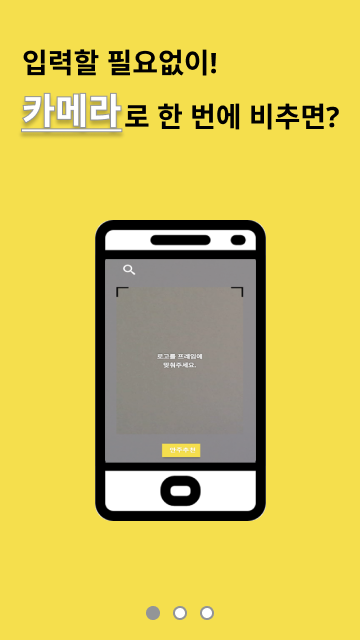
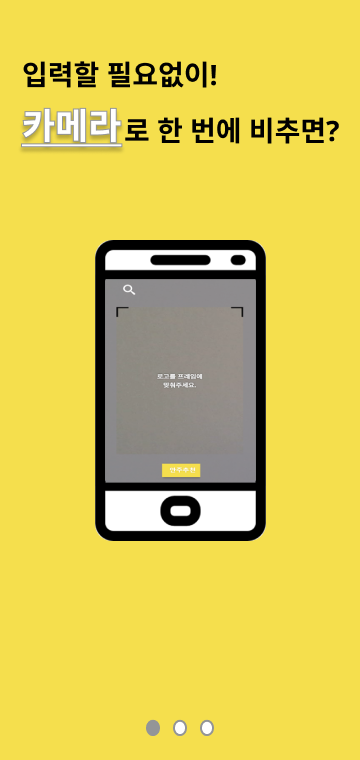
Fix: Fix Layout SIze

diff --git a/frontend/bear/src/views/ArPage.vue b/frontend/bear/src/views/ArPage.vue
@@ -48,7 +48,7 @@
         </div>
   </div>
   <!-- 검색버튼 -->
-  <div id="btn_nav1" ref="btn1" @click="goSearch">
+  <div id="btn_nav1" ref="btn1">
     <svg
       id="guide_img"
       xmlns="http://www.w3.org/2000/svg"
@@ -265,7 +265,7 @@
   margin-top: 50px;
   position: absolute;
   transform: translate(-50%, -50%);
-  top: 43%;
+  top: 36%;
   left: 50%;
   bottom: 0;
   display: flex;
@@ -282,7 +282,7 @@
   margin-top: 50px;
   position: absolute;
   transform: translate(-50%, -50%);
-  top: 43%;
+  top: 36%;
   left: 70%;
   bottom: 0;
   display: flex;

diff --git a/frontend/bear/src/views/LandingPage.vue b/frontend/bear/src/views/LandingPage.vue
@@ -1,5 +1,5 @@
 <template>
-    <el-carousel width="360px" height="640px">
+    <el-carousel width="360px" height="760px">
       <el-carousel-item v-for="(item,index) in items" :key="index">
         <img :src="item.image" />  
         <button id="scanbutton" v-if="item.id === 3" @click="goToAr"><img src="../assets/landing/4.png"></button>    
